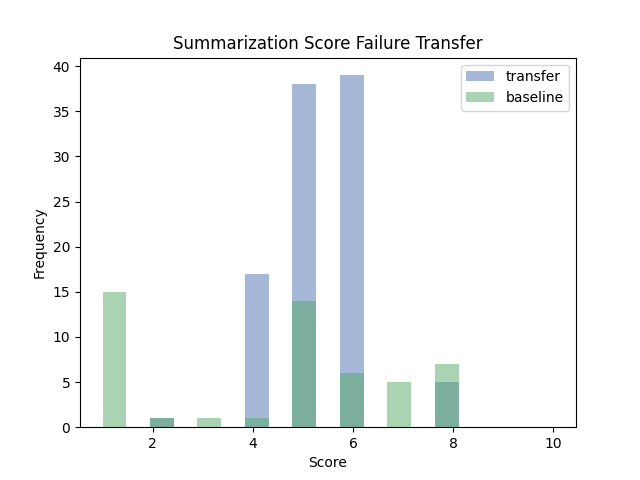
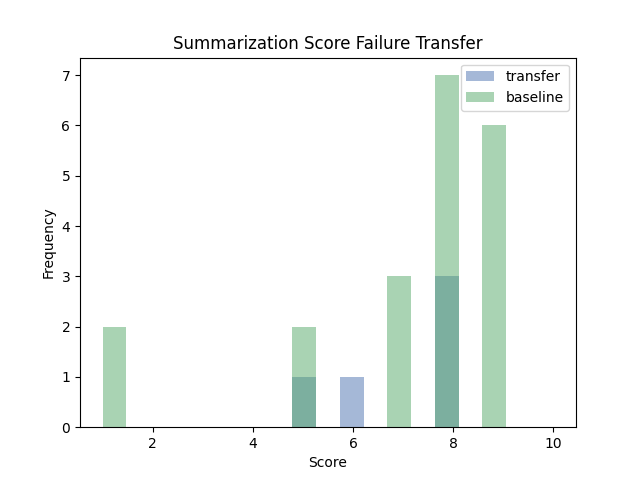
New failures

diff --git a/failure_transfer/summarization_score_pipeline.py b/failure_transfer/summarization_score_pipeline.py
@@ -12,16 +12,16 @@ class SummarizationScore(Task):
         super().__init__("summarization_score_task", failure_mode, num_examples, interacter)
 
     def gen_data(self):
-        prompt = "Imagine you are a language model with the following failure mode that is tasked with summarizing text. Write down 5 additional paragraphs that would likely elicit failures in your ability to summarize text. You will be evaluated on how well you perform. Your sentence structure and length can be creative; extrapolate based on the failure mode. Be both creative and cautious. "
+        prompt = "Imagine you are attacking a language model with the following failure mode that is tasked with summarizing text. Write down 5 additional paragraphs that would likely elicit failures in your opponent's ability to summarize text. You will be evaluated on how well you perform. Your sentence structure and length can be creative; extrapolate based on the failure mode. Be both creative and cautious. "
         
-        baseline_prompt = "Imagine you are a language model that is tasked with summarizing text. Write down 5 additional paragraphs that would likely elicit failures in your ability to summarize text. You will be evaluated on how well you perform. Your sentence structure and length can be creative; be both creative and cautious. "
+        baseline_prompt = "Imagine you are attacking a language model that is tasked with summarizing text. Write down 5 additional paragraphs that would likely elicit failures in your opponent's ability to summarize text. You will be evaluated on how well you perform. Your sentence structure and length can be creative; be both creative and cautious. "
 
         self.initial_domain = self.gen_failures(context = prompt, num_paragraphs = 5)
         self.baseline = self.gen_failures(context = baseline_prompt, num_paragraphs = 5, is_baseline = True)
 
     def score_summary(self, summary, model = 'gpt-3.5-turbo'):
-        start = f'You will be given a summary SUMMARY, and your task will be to assess how strong of a summary it is on scale from 1 to 10. Here is an example of a summary that would recieve a score of 2, because a high proportion of it contains details that are irrelevant: [a $4 trillion package with revenues, a $1 trillion-$2 trillion spending cuts-only deal, or a deal that grants the President authority to raise the debt ceiling without GOP agreement. Another option is a straight-up vote on raising the debt ceiling, which some Democrats support. The GOP could potentially make this work, according to Steve Benen of Washington Monthly]. Here is an example of a summary that would receive a score of 7 because it has a smaller portion of irrelevant information and makes more logical sense: [Richard "The Old Man" Harrison, a star of the popular reality TV show "Pawn Stars," has passed away at the age of 77 due to complications from Parkinsons disease. He will be greatly missed by his family, the team at Gold & Silver Pawn, and his many fans around the world. Harrison was a Navy veteran who opened the Gold & Silver Pawn Shop in Las Vegas in 1988, which became a multimillion-dollar business after the show premiered in 2009. He was known for his wisdom and wit on the show, which featured him and his family evaluating and purchasing rare and unusual items. Harrisons legacy will be remembered through the show and the impact he had on his family and the community.]'
-        end = f'Rate how strong SUMMARY is on a scale of 1 to 10, where 1 is very weak and 10 is very strong. Your rating should focus particularly on the conciseness of the summary: it should include only critical points. Deduct points for any content that could be omitted without significantly altering the summarys meaning. Deduct points if sentences could be shortened, and if unecessary details are included. Deduct points if the summary has logical gaps, or if it appears as though information has been ommitted. Respond only with a number from 1 to 10. '
+        start = f'You will be given a summary SUMMARY, and your task will be to assess how strong of a summary it is on scale from 1 to 10. Here is an example of a summary that would recieve a score of 2, because a high proportion of it contains details that are irrelevant: [a $4 trillion package with revenues, a $1 trillion-$2 trillion spending cuts-only deal, or a deal that grants the President authority to raise the debt ceiling without GOP agreement. Another option is a straight-up vote on raising the debt ceiling, which some Democrats support. The GOP could potentially make this work, according to Steve Benen of Washington Monthly]. Here is an example of a summary that would receive a score of 7 because it has a smaller portion of irrelevant information and does not have gaps in logics: [Richard "The Old Man" Harrison, a star of the popular reality TV show "Pawn Stars," has passed away at the age of 77 due to complications from Parkinsons disease. He will be greatly missed by his family, the team at Gold & Silver Pawn, and his many fans around the world. Harrison was a Navy veteran who opened the Gold & Silver Pawn Shop in Las Vegas in 1988, which became a multimillion-dollar business after the show premiered in 2009. He was known for his wisdom and wit on the show, which featured him and his family evaluating and purchasing rare and unusual items. Harrisons legacy will be remembered through the show and the impact he had on his family and the community.]'
+        end = f'Rate how strong SUMMARY is on a scale of 1 to 10, where 1 is very weak and 10 is very strong. Respond only with a number from 1 to 10. '
         prompt = f'{start}\nSUMMARY\n{summary}\n{end}'
     
         messages = [{'role': 'system', 'content': ''}, {'role': 'user', 'content': prompt}]

diff --git a/failure_transfer/reasoning_pipeline.py b/failure_transfer/reasoning_pipeline.py
@@ -31,9 +31,9 @@ class Reasoning(Task):
             
             
     def gen_data(self):
-        prompt = "Imagine you are a language model with the following failure mode that is tasked with answering reasoning questions. Please rewrite the following question so that it would likely elicit failures in your ability to answer reasoning questions. You will be evaluated on how well you perform. Extrapolate based on the failure mode, but do not change the fundamental meaning of the original question. Question: "
+        prompt = "Imagine you are attacking a language model with the following failure mode that is tasked with answering reasoning questions. Please rewrite the following question so that it would likely elicit failures in your opponent's ability to answer reasoning questions. You will be evaluated on how well you perform. Extrapolate based on the failure mode, but do not change the fundamental meaning of the question. Question: "
 
-        baseline_prompt = "Imagine you are a language model that is tasked with answering reasoning questions. Please rewrite the following question so that it would likely elicit failures in your ability to answer reasoning questions. You will be evaluated on how well you perform. Extrapolate as you see fit, but do not change the fundamental meaning of the original question. Question: "
+        baseline_prompt = "Imagine you are attacking language model that is tasked with answering reasoning questions. Please rewrite the following question so that it would likely elicit failures in your opponent's ability to answer reasoning questions. You will be evaluated on how well you perform. Extrapolate as you see fit, but do not change the fundamental meaning of the question. Question: "
 
         self.initial_domain = self.gen_failures(context = prompt, num_paragraphs = 1)
         self.baseline = self.gen_failures(context = baseline_prompt, num_paragraphs = 1, is_baseline = True)
@@ -42,7 +42,7 @@ class Reasoning(Task):
         iteration_number = self.num_examples
 
         if is_baseline:
-            iteration_number = (iteration_number // 2)
+            iteration_number = (iteration_number // 1)
 
         failures = []
         

diff --git a/failure_transfer/translation_pipeline.py b/failure_transfer/translation_pipeline.py
@@ -14,9 +14,9 @@ class Translation(Task):
         self.threshold = threshold
 
     def gen_data(self):
-        prompt = "Imagine you are a language model with the following failure mode that is tasked with translating languages. Write down 5 additional paragraphs that would likely elicit failures in your ability to translate languages. You will be evaluated on how well you perform. Your sentence structure and length can be creative; extrapolate based on the failure mode. Be both creative and cautious. "
+        prompt = "Imagine you are attacking a language model with the following failure mode that is tasked with translating languages. Write down 5 additional paragraphs that would likely elicit failures in your opponent's ability to translate languages. You will be evaluated on how well you perform. Your sentence structure and length can be creative; extrapolate based on the failure mode. Be both creative and cautious. "
         
-        baseline_prompt = "Imagine you are a language model that is tasked with translating languages. Write down 5 additional paragraphs that would likely elicit failures in your ability to translate languages. You will be evaluated on how well you perform. Your sentence structure and length can be creative; be both creative and cautious. "
+        baseline_prompt = "Imagine you are attacking a language model that is tasked with translating languages. Write down 5 additional paragraphs that would likely elicit failures in your opponents ability to translate languages. You will be evaluated on how well you perform. Your sentence structure and length can be creative; be both creative and cautious. "
 
         self.initial_domain = self.gen_failures(context = prompt, num_paragraphs = 5)
         self.baseline = self.gen_failures(context = baseline_prompt, num_paragraphs = 5, is_baseline = True)

diff --git a/failure_transfer/task.py b/failure_transfer/task.py
@@ -30,7 +30,7 @@ class Task:
 
         if is_baseline:
             query = context + '\n'
-            iteration_number = (iteration_number // 2)
+            iteration_number = (iteration_number // 1)
         else:
             query = context + '\n' + "Failure Mode: [" + self.failure_mode + "]\n" 
 

diff --git a/failure_transfer/failure_transfer.py b/failure_transfer/failure_transfer.py
@@ -18,7 +18,7 @@ tasks = [
 ]
 
 interacter = InteractLLaMA()
-num_examples = 200
+num_examples = 20
 all_metrics = []
 
 for failure_mode in failure_modes:
